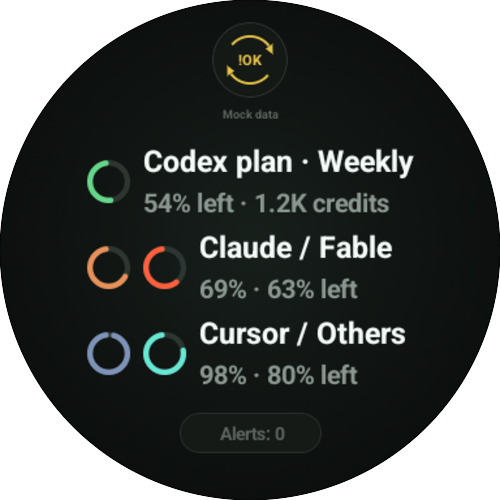
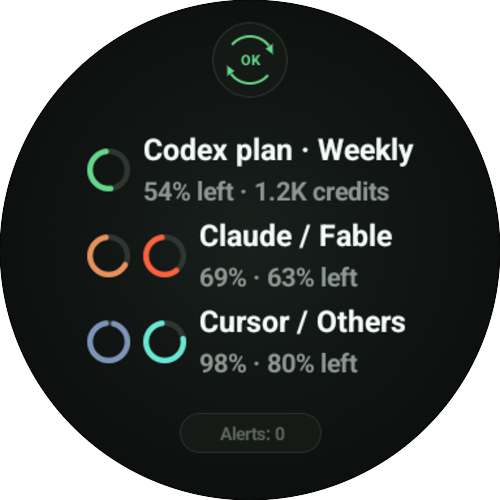
docs: add store listing galleries

Changed region(s): [[0.15, 0.27, 0.84, 0.78], [0.45, 0.06, 0.57, 0.18], [0.45, 0.21, 0.57, 0.24]]

diff --git a/docs/assets/README.md b/docs/assets/README.md
@@ -2,6 +2,9 @@
 
 This directory owns the public UI PNGs used by the site, root README and task-guide illustrations.
 Apply [user-docs](../../.agents/skills/user-docs/SKILL.md) when capturing or reviewing them.
+Store assets have their own upload order and format. See the [phone gallery](store-phone/README.md)
+and the [Wear OS and watch face gallery](store-wear/README.md). The store PNGs are covered by
+the [WardPulse brand usage rules](../../brand/README.md#usage-rules).
 
 Select up to three showcase subjects per platform for the landing/README gallery. Android
 phone and Wear OS are one platform, with both phone and watch represented. Reuse the same
@@ -12,6 +15,12 @@ the original aspect ratio, and watch PNGs are 500×500px with transparent corner
 the circular screen.
 
 ## Screenshot index
+
+**Glance refresh, 2026-11-22 (Europe/Paris).** The general Glance image was recaptured on the
+round Wear emulator with the same sample credits, percentages and ring selection as the
+showcase. The fixture was refreshed for a healthy `OK` state. Its native 384×384 frame also
+supplies the [Wear store gallery](store-wear/README.md). The documentation export keeps the
+existing 500×500 round presentation. Prior capture records below describe their dated exports.
 
 **Capture refresh, 2026-11-06 (Europe/Paris).** The library remains 37 screenshots.
 Nineteen replacement examples were captured from one shared Mock/demo snapshot, reviewed
@@ -79,11 +88,9 @@ image or its placement changes.
 
 ### Current index rows
 
-Captured and Last verified refer to actual native-frame/export observations. The nineteen
-2026-11-06 rows use their actual Europe/Paris calendar dates; precise UTC observations and
-hashes are recorded in the new cohort below. All nineteen accepted exports are integrated
-into their existing paths. Current served-byte, placement and original-image-link checks
-are recorded in the new cohort.
+Captured and Last verified refer to actual native-frame/export observations. Dates are in
+Europe/Paris. The dated cohorts below record the UTC observations, hashes, placement and
+original-image-link checks for their respective exports.
 
 | File | Description | Theme | Date added | Captured | Last verified | Dimensions | App | Used in |
 | --- | --- | --- | --- | --- | --- | --- | --- | --- |
@@ -117,7 +124,7 @@ are recorded in the new cohort.
 | [phone-home-widget-short-dark.png](phone-home-widget-short-dark.png) | Three complete leading demo rows, retaining applicable balance and reset details. | Dark | 2026-10-23 | 2026-11-06 | 2026-11-06 | 864×1920 | WardPulse phone | Dark Widget guide, height example |
 | [phone-watch-settings-light.png](phone-watch-settings-light.png) | Demo selection of Codex, Claude/Fable and Cursor pools across three bands. | Light | 2026-10-14 | 2026-11-06 | 2026-11-06 | 864×1920 | WardPulse phone | Light Watch guide |
 | [phone-watch-settings-dark.png](phone-watch-settings-dark.png) | Demo selection of Codex, Claude/Fable and Cursor pools across three bands. | Dark | 2026-10-14 | 2026-11-06 | 2026-11-06 | 864×1920 | WardPulse phone | Dark Watch guide |
-| [wear-glance-overview.png](wear-glance-overview.png) | Clock-free Mock data example: Codex 54%/1.2K, Claude/Fable 69%/63%, Cursor/Others 98%/80%; no active alerts. | Fixed dark | 2026-10-20 | 2026-11-06 | 2026-11-06 | 500×500 | WardPulse Wear | Both landing/README themes and general Watch guide |
+| [wear-glance-overview.png](wear-glance-overview.png) | Clock-free Glance with green OK, Codex 54%/1.2K, Claude/Fable 69%/63%, Cursor/Others 98%/80% and zero active alerts. | Fixed dark | 2026-10-20 | 2026-11-22 | 2026-11-22 | 500×500 | WardPulse Wear | Both landing/README themes and general Watch guide |
 | [wear-glance.png](wear-glance.png) | Clock-free Stale example: Claude Weekly 1%, Codex Weekly 4%, Cursor Models 50%; amber !OK, Alerts 0 disabled. | Fixed dark | 2026-10-14 | 2026-10-24 | 2026-10-24 | 500×500 | WardPulse Wear | Watch guide, refresh-status explanation of Stale / !OK only |
 | [wear-plan-windows.png](wear-plan-windows.png) | Demo Claude 5-hour session with 80% left and its reported reset shown as back at 04:46. | Fixed dark | 2026-10-14 | 2026-11-06 | 2026-11-06 | 500×500 | WardPulse Wear | Watch guide in both themes |
 | [wear-watch-face.png](wear-watch-face.png) | Three demo bands with Claude/Fable and Cursor pairs; actual Fri, 69°F and UV 1 default upper data. | Fixed dark | 2026-10-14 | 2026-11-06 | 2026-11-06 | 500×500 | WardPulse watch face | Both landing/README themes and Watch guide |

diff --git a/docs/assets/store-wear/README.md b/docs/assets/store-wear/README.md
@@ -1,0 +1,24 @@
+# Wear OS store gallery
+
+Sample usage data is shown throughout. The captures use the fixed dark appearance of the
+Wear app and watch face. Files were added and reviewed on 2026-11-22. Glance and Plan
+windows were captured in one session on the round Wear emulator on 2026-11-22.
+
+| Slot | File | Content |
+| --- | --- | --- |
+| 0 | [Promotional cover](0-cover.png) | 1254 × 1254 RGB art with the watch face, Glance and phone Dashboard in illustrated, unbranded hardware. |
+| 1 | [Glance](1-glance.png) | 384 × 384 RGB emulator capture showing remaining capacity and purchased credits. |
+| 2 | [Plan windows](2-plan-windows.png) | 384 × 384 RGB emulator capture showing a reported allowance and its reset time. |
+
+Use slots 1 and 2 in the Google Play Wear OS screenshot gallery. Slot 0 is promotional art.
+Google Play requires the Wear screenshot gallery to show only the app interface.
+[Google Play preview asset requirements](https://support.google.com/googleplay/android-developer/answer/9866151?hl=en-GB)
+
+## Watch face listing
+
+Use these two unframed 384 × 384 RGB emulator captures in order for a separate watch face
+listing. They were captured on 2026-11-06 (Europe/Paris) and show the same sample readings
+with different ring selections.
+
+1. [Three bands](watch-face-1-full.png)
+2. [Two bands](watch-face-2-two-bands.png)

diff --git a/docs/assets/store-phone/README.md b/docs/assets/store-phone/README.md
@@ -1,0 +1,16 @@
+# Phone store gallery
+
+Google Play phone listing, in upload order. Choose one cover for slot 0. All files are
+1080 × 1920 RGB PNGs, added and reviewed on 2026-11-22. The screenshots were captured on
+2026-11-22 from an Android emulator with sample usage data. The covers place app captures
+inside illustrated, unbranded hardware.
+
+| Slot | File | Content |
+| --- | --- | --- |
+| 0 | [Cover](0-cover.png) | Unfolded phone with Dashboard, a phone with the home widget, and the watch face. |
+| 0, alternate | [Alternate cover](0-cover-alternate.png) | Dashboard and widget phones in front of the unfolded phone, with the watch face at right. |
+| 1 | [Dashboard](1-dashboard-dark.png) | Dark theme. Claude 5-hour, weekly and Fable allowances with reset times. |
+| 2 | [Home widget](2-home-widget-dark.png) | Dark theme. Five visible rows at the captured home widget size. |
+| 3 | [Widget settings](3-widget-settings-light.png) | Light theme. Six selected metrics. |
+
+[Google Play preview asset requirements](https://support.google.com/googleplay/android-developer/answer/9866151?hl=en-GB)

diff --git a/docs/product/user-guide/WATCH.md b/docs/product/user-guide/WATCH.md
@@ -30,9 +30,9 @@ to return to the previous page; from either home page, one dismissal leaves the 
 
 ![Clock-free Wear Glance showing selected plan capacity and available purchased credits.](/screenshots/wear-glance-overview.png)
 
-The selected metric with the lowest remaining percentage appears first.
-This general Glance example uses demo usage data. The **Mock data** line identifies the
-demonstration; see the [refresh status legend](#refresh-status) for the control's colours and actions.
+The selected metric with the lowest remaining percentage appears first. This example uses
+sample usage data. See the [refresh status legend](#refresh-status) for the control's colours
+and actions.
 
 ### Plan windows
 

diff --git a/docs/product/user-guide/SYNC.md b/docs/product/user-guide/SYNC.md
@@ -26,9 +26,6 @@ The selected interval is between 5 and 60 minutes while WardPulse is open; the d
 The text beside the slider shows both cadences. Background refresh may continue when you
 are not using WardPulse, subject to Android scheduling.
 
-In debug builds with **Mock data** on, background refresh skips provider reads and leaves
-the demo widget and watch displays unchanged. Turn Mock data off to resume it.
-
 Automatic refreshes share their spacing across the open app, restarts and background work.
 An attempted refresh counts even when the network fails. Opening the app again can show
 saved data while the next automatic attempt is still waiting. Refresh now and connection

diff --git a/brand/README.md b/brand/README.md
@@ -6,7 +6,9 @@ reserved for assets that define the official WardPulse product identity.
 ## Directories
 
 - `icons/`: shared OpenPencil `.fig` sources and exported app and product identity icons.
-- `store/`: Play Store screenshots, feature graphics, listing copy, and release artwork.
+- `store/`: reserved for store copy and supporting brand artwork. The tracked store covers
+  and screenshots are in the [phone](../docs/assets/store-phone/README.md) and
+  [Wear OS and watch face](../docs/assets/store-wear/README.md) galleries.
 - `watchface/`: watch face visual assets and packaging artwork.
 
 ## Usage Rules

diff --git a/docs/README.md b/docs/README.md
@@ -22,6 +22,8 @@ becoming public Vocs pages.
 - [Report an issue](product/user-guide/REPORT_AN_ISSUE.md)
 - [Roadmap](product/user-guide/ROADMAP.md)
 - [UI screenshot index](assets/README.md)
+  - [Phone store gallery](assets/store-phone/README.md)
+  - [Wear OS and watch face store gallery](assets/store-wear/README.md)
 
 ## Start Here
 
